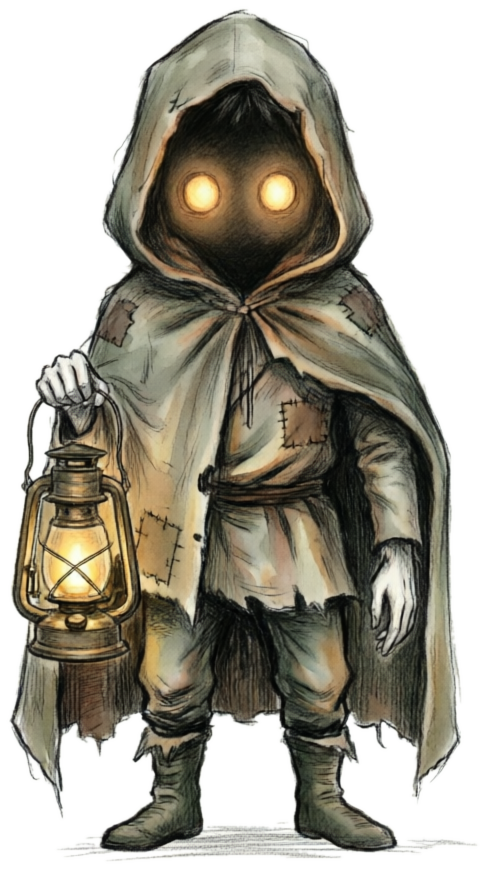
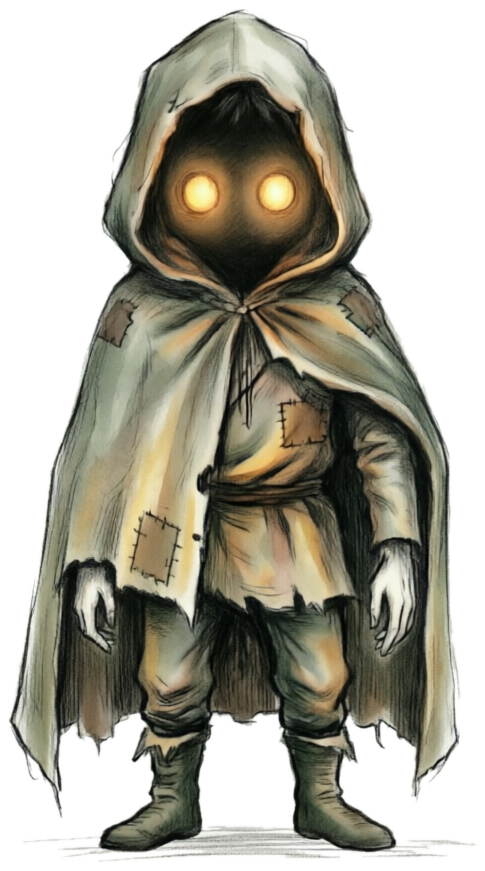
art: 寻音者立绘 v2（空手无提灯,为挥砍与程序光效让位）;cut_bg 孔洞后二次除渣
- assets/raw/seeker-02.png 千问原图,assets/processed/seeker.png 定稿替换
- cut_bg.py:孔洞清除后再跑一次最大连通块,清掉孔内被孤立的阴影线碎屑
- gitignore 补 tools/__pycache__/

diff --git a/tools/cut_bg.py b/tools/cut_bg.py
@@ -131,6 +131,9 @@ def cut(src, dst, tol=38, preview=None, keep_islands=False, min_hole=800):
     if not keep_islands:
         fg = largest_component(fg, w, h)
     fg = remove_enclosed_holes(px, fg, w, h, bg, tol + 6, min_hole)
+    if not keep_islands:
+        # 孔洞清除可能把孔内残渣（阴影线碎屑）孤立成飞点，再过滤一次
+        fg = largest_component(fg, w, h)
 
     alpha = Image.new("L", (w, h), 0)
     alpha.putdata([255 if v else 0 for v in fg])